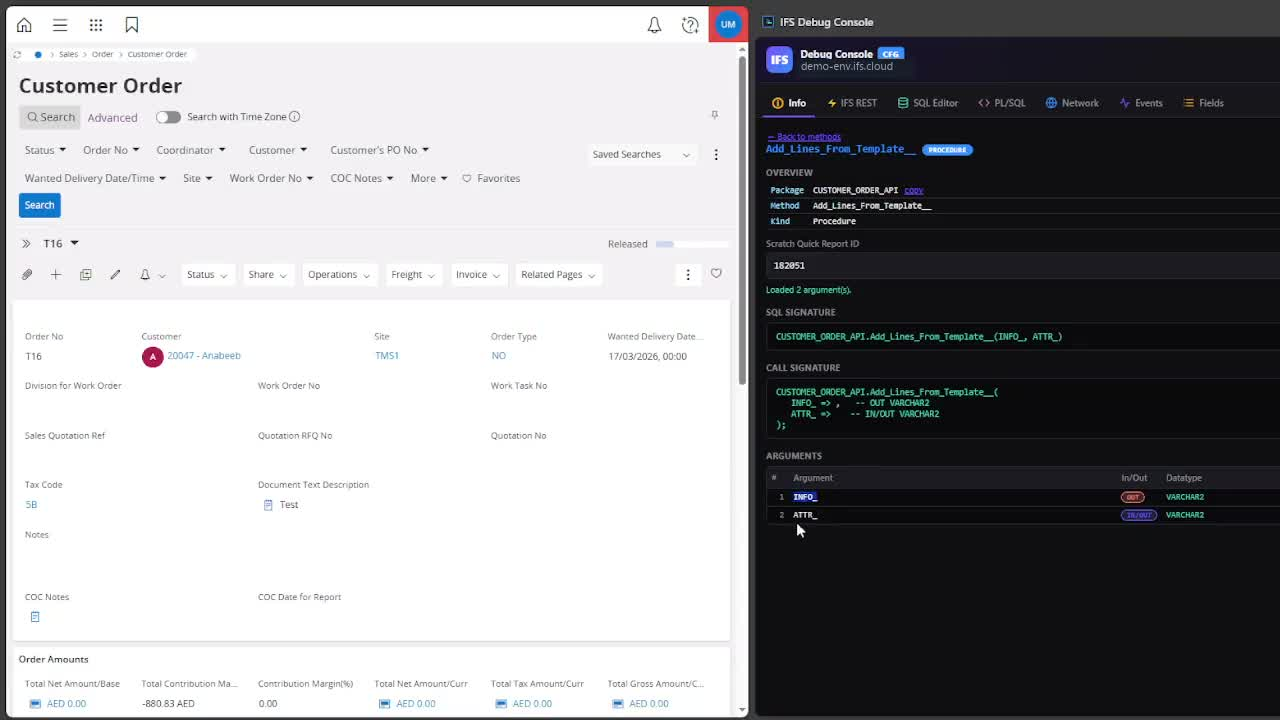
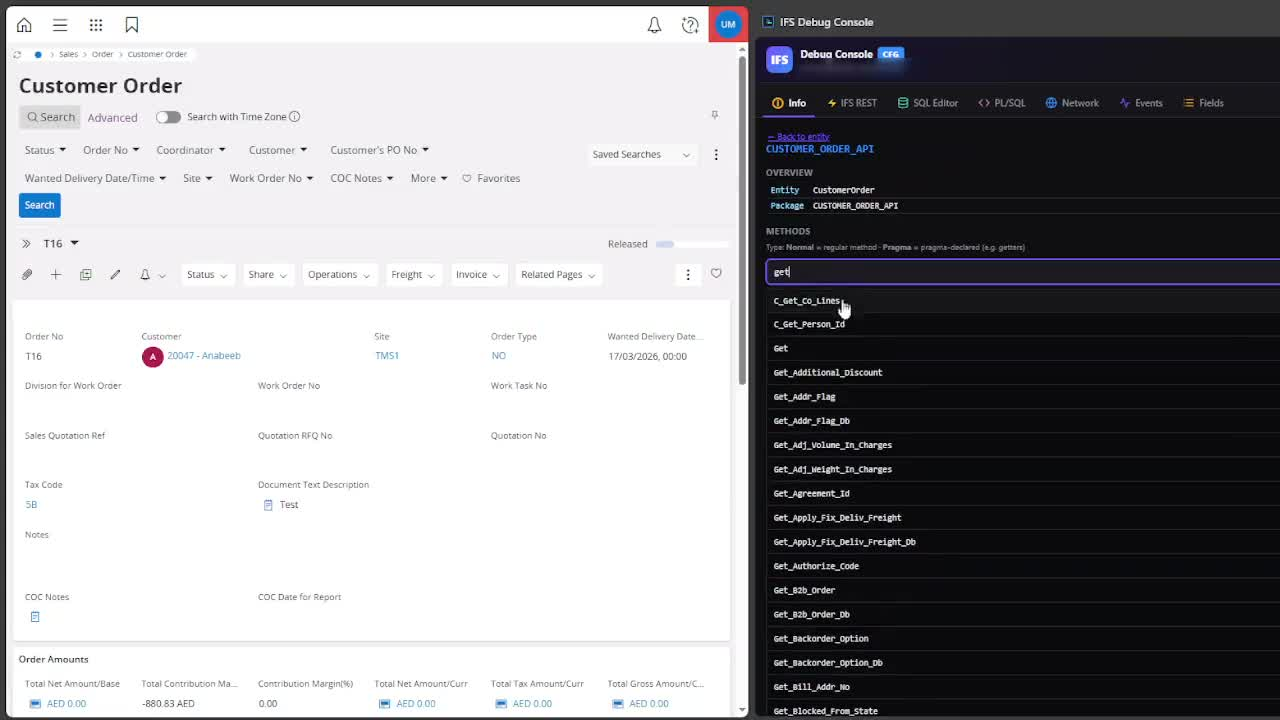
Demo video: 5 features, hostname blurred; lightbox modal; project copy in Tharshan's words

Changed region(s): [[0.5938, 0.2444, 1.0, 1.0], [0.625, 0.0611, 0.7188, 0.1222], [0.5938, 0.1833, 0.7812, 0.2139]]

diff --git a/styles.css b/styles.css
@@ -446,11 +446,53 @@ img { max-width: 100%; display: block; }
   padding: 0.3rem 0.85rem; white-space: nowrap;
 }
 .project__desc { color: var(--text-mut); font-size: 0.97rem; margin-bottom: 1rem; max-width: 50rem; }
-.project__media {
-  width: 100%; margin-top: 1.2rem;
-  border-radius: var(--radius-sm); border: 1px solid var(--border);
+.project__play {
+  display: flex; align-items: center; gap: 1rem;
+  margin-top: 1.3rem; padding: 0.9rem 1.4rem 0.9rem 1rem;
+  background: var(--surface-2); border: 1px solid var(--border);
+  border-radius: var(--radius-sm); cursor: pointer; text-align: left;
+  color: var(--text); font: inherit;
+  transition: transform 0.25s var(--ease), border-color 0.25s, background 0.25s;
 }
-.project__note { font-size: 0.85rem; color: var(--text-dim); margin-top: 1rem; }
+.project__play:hover {
+  transform: translateY(-2px); border-color: var(--accent);
+  background: var(--accent-soft);
+}
+.project__play-icon {
+  display: grid; place-items: center; flex-shrink: 0;
+  width: 42px; height: 42px; border-radius: 50%;
+  background: var(--accent); color: #fff; font-size: 0.9rem; padding-left: 3px;
+}
+.project__play strong { display: block; font-size: 0.98rem; font-weight: 600; }
+.project__play small { display: block; color: var(--text-dim); font-size: 0.82rem; margin-top: 0.15rem; }
+
+/* ---------- Video lightbox ---------- */
+.lightbox { position: fixed; inset: 0; z-index: 200; display: grid; place-items: center; padding: 1.5rem; }
+.lightbox[hidden] { display: none; }
+.lightbox__backdrop {
+  position: absolute; inset: 0;
+  background: rgba(5, 7, 10, 0.88); backdrop-filter: blur(6px);
+  animation: fadeIn 0.25s var(--ease);
+}
+.lightbox__inner {
+  position: relative; width: min(1100px, 100%);
+  animation: popIn 0.28s var(--ease);
+}
+.lightbox__video {
+  width: 100%; display: block; border-radius: var(--radius);
+  border: 1px solid var(--border); box-shadow: var(--shadow); background: #000;
+}
+.lightbox__close {
+  position: absolute; top: -2.6rem; right: 0;
+  width: 36px; height: 36px; border-radius: 50%;
+  background: var(--surface); border: 1px solid var(--border); color: var(--text);
+  font-size: 1.35rem; line-height: 1; cursor: pointer;
+  transition: border-color 0.2s, color 0.2s;
+}
+.lightbox__close:hover { border-color: var(--accent); color: var(--accent-2); }
+body.lightbox-open { overflow: hidden; }
+@keyframes fadeIn { from { opacity: 0; } to { opacity: 1; } }
+@keyframes popIn { from { opacity: 0; transform: scale(0.97); } to { opacity: 1; transform: scale(1); } }
 
 /* ---------- Two-column (edu + strengths) ---------- */
 .two-col { display: grid; grid-template-columns: 1fr 1fr; gap: 3rem; }

diff --git a/index.html b/index.html
@@ -368,12 +368,15 @@
           <span class="project__status">In development · Chrome Extension</span>
         </div>
         <p class="project__desc">
-          A Chrome extension that adds a debug side panel to IFS Cloud, built in my spare time with
-          AI-assisted development. It signs in through an IAM client using OAuth (Authorization Code + PKCE)
-          and works entirely over IFS REST services — an API console with metadata-driven suggestions,
-          a field inspector that shows the real database column and view behind any field on the page,
-          a read-only SQL editor, a network trace that surfaces the PL/SQL error stack behind failed
-          OData calls, and a projection tracer that maps every sub-page of a record.
+          A Chrome extension I built in my spare time (with some AI help along the way) that adds a debug
+          side panel to IFS Cloud. It signs in via OAuth (Authorization Code + PKCE) through an IAM client
+          and runs entirely on IFS REST services.
+        </p>
+        <p class="project__desc">
+          It includes an API console with metadata-driven suggestions, a field inspector that shows the
+          actual database column and view behind any field on screen, a read-only SQL editor, a network
+          trace that surfaces the real PL/SQL error stack behind failed OData calls, and a projection
+          tracer that maps out every sub-page tied to a record.
         </p>
         <div class="chips">
           <span class="chip">Chrome Extension (MV3)</span>
@@ -383,14 +386,14 @@
           <span class="chip">OAuth 2.0 (PKCE)</span>
           <span class="chip">IAM (Keycloak)</span>
         </div>
-        <video class="project__media" controls muted loop playsinline preload="none"
-               poster="assets/ifs-debug-console-poster.jpg">
-          <source src="assets/ifs-debug-console-demo.mp4" type="video/mp4" />
-        </video>
-        <p class="project__note">
-          Demo: entity → views → columns and package → method drill-downs, with full SQL signatures
-          and typed arguments. Recorded against a demo environment.
-        </p>
+        <button class="project__play" data-video="assets/ifs-debug-console-demo.mp4"
+                data-poster="assets/ifs-debug-console-poster.jpg">
+          <span class="project__play-icon" aria-hidden="true">▶</span>
+          <span>
+            <strong>Watch the demo</strong>
+            <small>4:46 · Field metadata, SQL editor, PL/SQL, Events, Projection trace</small>
+          </span>
+        </button>
       </div>
     </section>
 
@@ -512,6 +515,15 @@
     <p>© <span id="year"></span> Ugatharshan Murugesu · Built with care in Dubai</p>
     <a href="#home" class="footer__top">Back to top ↑</a>
   </footer>
+
+  <!-- Video lightbox -->
+  <div class="lightbox" id="lightbox" role="dialog" aria-modal="true" aria-label="Project demo video" hidden>
+    <div class="lightbox__backdrop" data-close></div>
+    <div class="lightbox__inner">
+      <button class="lightbox__close" id="lightboxClose" aria-label="Close video">&times;</button>
+      <video class="lightbox__video" id="lightboxVideo" controls playsinline></video>
+    </div>
+  </div>
 
   <script src="script.js"></script>
   <!-- GoatCounter analytics — privacy-friendly, no cookies -->

diff --git a/script.js b/script.js
@@ -111,6 +111,44 @@
     statNums.forEach((el) => statIo.observe(el));
   }
 
+  /* --- Video lightbox --- */
+  const lightbox = document.getElementById("lightbox");
+  const lbVideo = document.getElementById("lightboxVideo");
+  const lbClose = document.getElementById("lightboxClose");
+  const playBtns = document.querySelectorAll(".project__play");
+
+  if (lightbox && lbVideo) {
+    const openLightbox = (src, poster) => {
+      lbVideo.src = src;                 // only fetched when opened
+      if (poster) lbVideo.poster = poster;
+      lightbox.hidden = false;
+      document.body.classList.add("lightbox-open");
+      lbClose.focus();
+      lbVideo.play().catch(() => {});    // autoplay may be blocked; controls remain
+    };
+
+    const closeLightbox = () => {
+      lbVideo.pause();
+      lbVideo.removeAttribute("src");
+      lbVideo.load();                    // free the buffer
+      lightbox.hidden = true;
+      document.body.classList.remove("lightbox-open");
+    };
+
+    playBtns.forEach((btn) =>
+      btn.addEventListener("click", () =>
+        openLightbox(btn.dataset.video, btn.dataset.poster)
+      )
+    );
+    lbClose.addEventListener("click", closeLightbox);
+    lightbox.addEventListener("click", (e) => {
+      if (e.target.hasAttribute("data-close")) closeLightbox();
+    });
+    document.addEventListener("keydown", (e) => {
+      if (e.key === "Escape" && !lightbox.hidden) closeLightbox();
+    });
+  }
+
   /* --- Footer year --- */
   const year = document.getElementById("year");
   if (year) year.textContent = new Date().getFullYear();